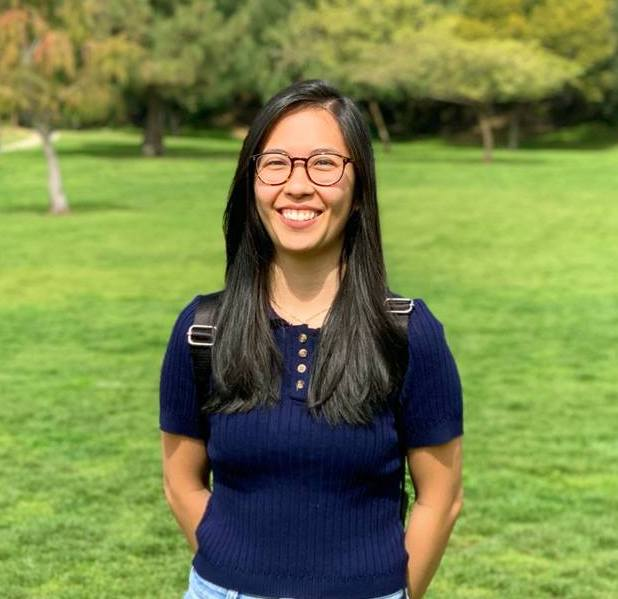
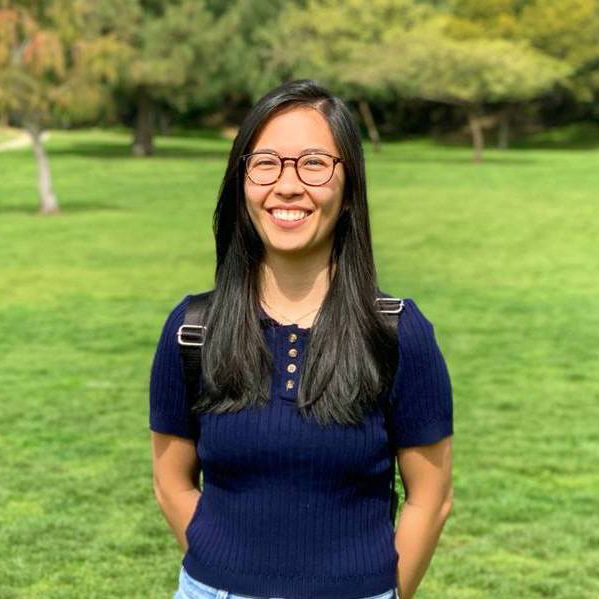
make edits on Ernie's profile and resize photos

diff --git a/ernestorosales.html b/ernestorosales.html
@@ -67,12 +67,24 @@
          </div> 
         <div class="row">
             <div class="column left">
-                <p><b>3</b></p>
+                <p><b>5</b></p>
             </div>
             <div class="column right">
                 <p><b>Clubs that "weren't a good fit"</b></p>
-                <ul><li>Wharton Council</li><li>MUSE</li><li>IAA</li>
-                 </ul>
+                <div class="ui grid">
+                    <div class="eight wide column">
+                        <ul><li>Wharton Council</li>
+                            <li>Marketing Undergraduate Students Establishment</li>
+                            <li>International Affairs Association</li>
+                         </ul>
+                    </div>
+                    <div class="eight wide column">
+                        <ul>
+                            <li>MGMT 100 TA</li>
+                            <li>Delta Sigma Pi</li>
+                        </ul>
+                    </div>
+                </div>
                 <div class="ui divider"></div>
               </div>
               
